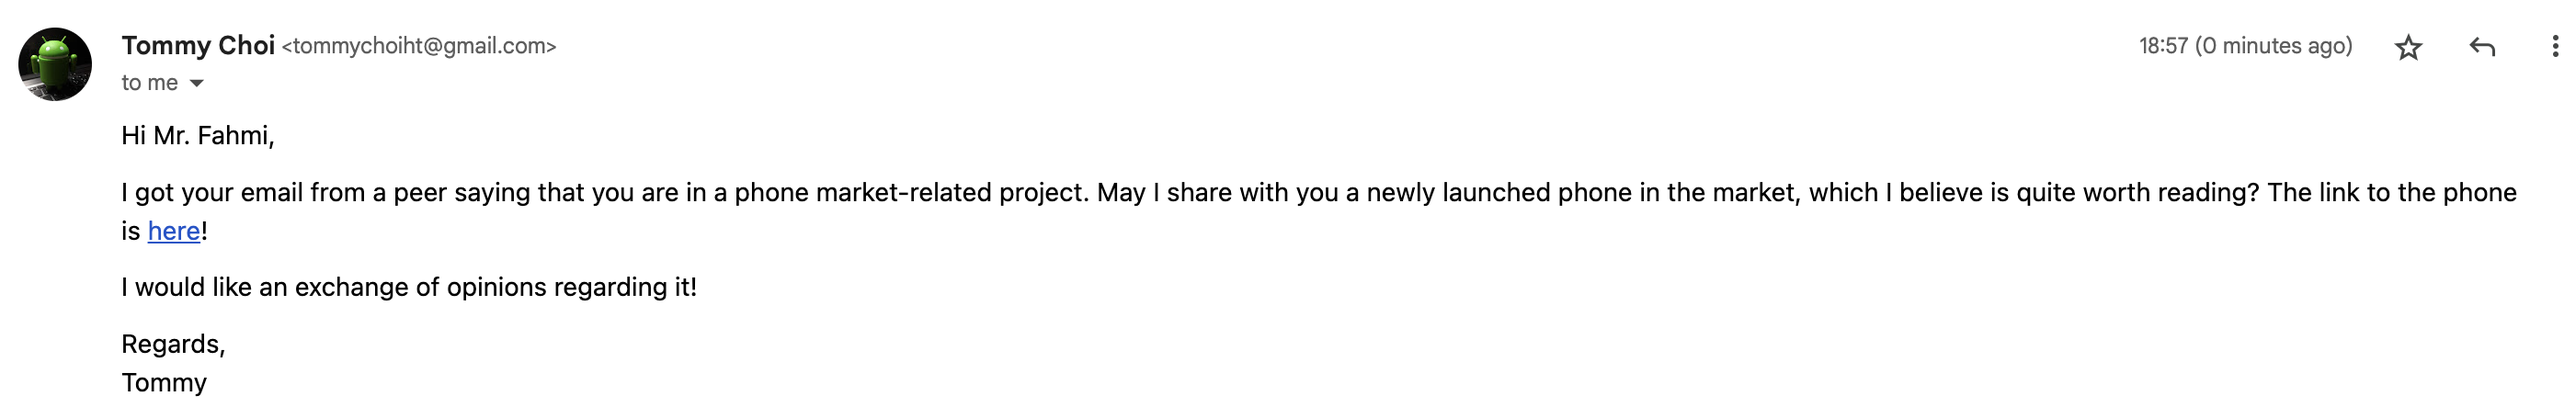
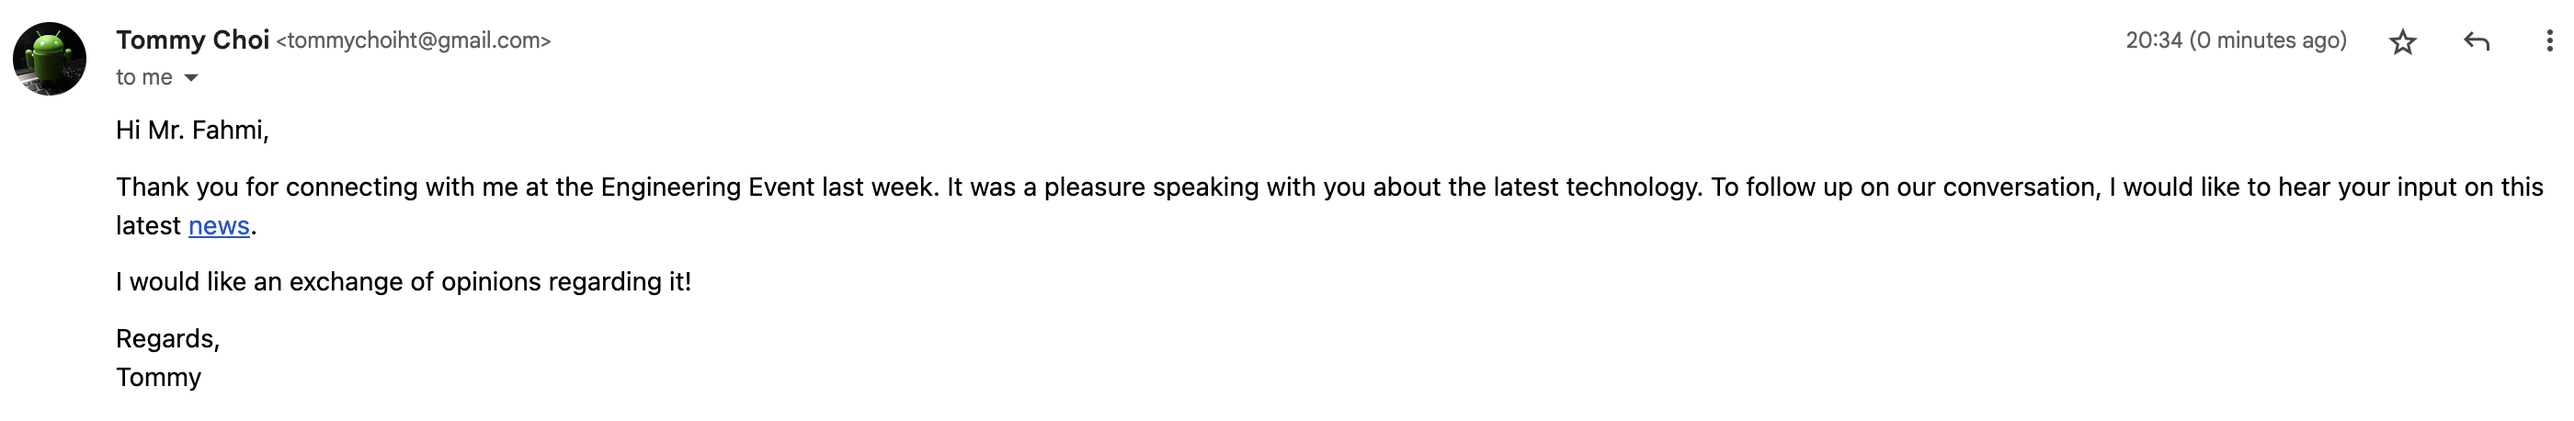
Update the first phishing email

diff --git a/Attack/attack_flow.md b/Attack/attack_flow.md
@@ -15,7 +15,7 @@
 The phishing email:
 > Hi Mr. Fahmi,
 > 
-> I got your email from a peer saying that you are in a phone market-related project. May I share with you a newly launched phone in the market, which I believe is quite worth reading? The link to the phone is [here](https://shorturl.at/ksT15)!
+> Thank you for connecting with me at the Engineering Event last week. It was a pleasure speaking with you about the latest technology. To follow up on our conversation, I would like to hear your input on this latest [news](http://shorturl.at/ksT15). 
 > 
 > I would like an exchange of opinions regarding it!
 > 
